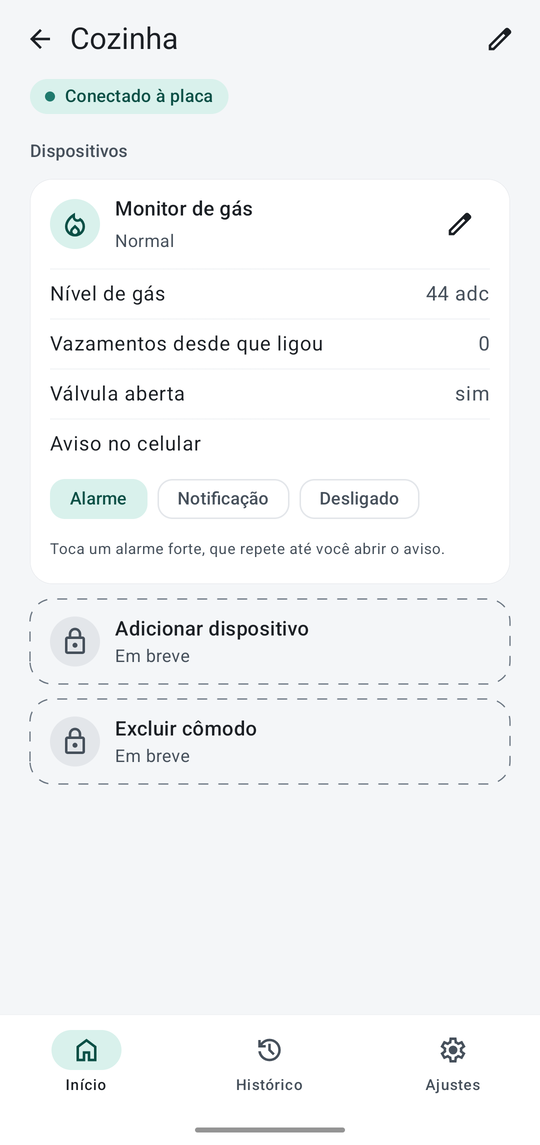
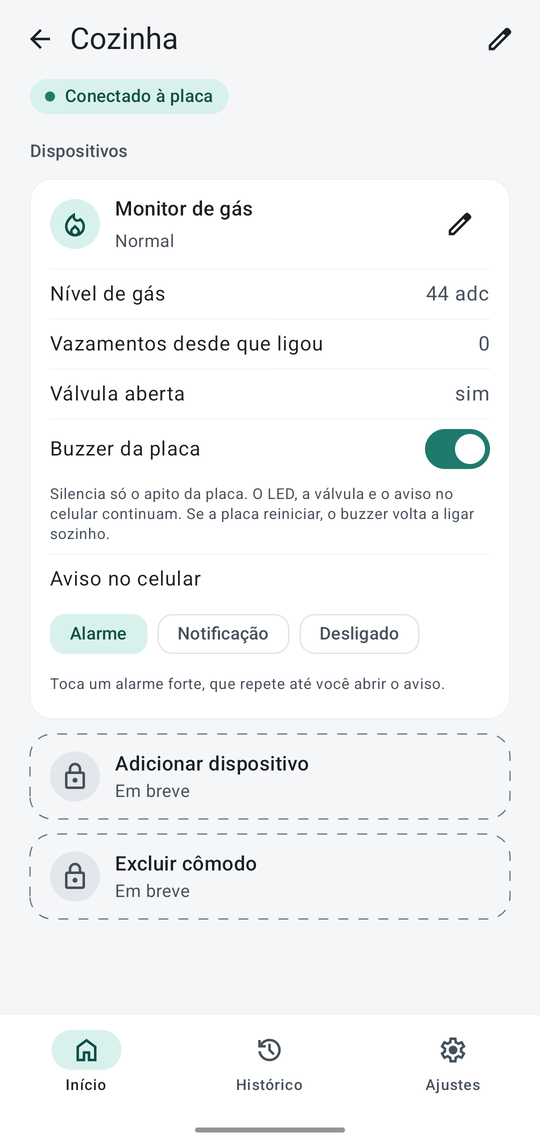
feat: the app has a switch for the buzzer of the board, and silencing it asks first (#36)
The card of the gas monitor shows "Buzzer da placa", the buzzer-enabled switch of the
contract, with a line that says it silences only the sound of the board (the LED, the
valve and the warning on the phone go on) and that it comes back on by itself if the
board restarts. Silencing it asks first, for whoever is near the board without the
phone would hear nothing in a leak; enabling it again does not ask.

Documentation: README of the app and a new photo of the kitchen.

diff --git a/android/app/src/main/kotlin/io/github/gustavommcv/ciscsmarthome/ui/home/RoomScreen.kt b/android/app/src/main/kotlin/io/github/gustavommcv/ciscsmarthome/ui/home/RoomScreen.kt
@@ -221,6 +221,7 @@ private fun DeviceCard(
       HorizontalDivider(modifier = Modifier.padding(top = if (index == 0) Spacing.M else 0.dp), thickness = Dp.Hairline, color = MaterialTheme.colorScheme.outlineVariant)
       val enabled = entity.controlEnabled(connection, pending)
       when {
+        entity is Entity.Switch && entity.commandable && entity.id == EntityIds.BuzzerEnabled -> BuzzerRow(entity, enabled) { onCommand(entity.id, entity.toggleCommand()) }
         entity is Entity.Switch && entity.commandable -> SwitchRow(entity, enabled) { onCommand(entity.id, entity.toggleCommand()) }
         entity is Entity.Select && entity.commandable -> SelectRow(entity, enabled) { option -> onCommand(entity.id, CommandValue.Choice(option)) }
         entity is Entity.Number && entity.commandable -> {
@@ -248,6 +249,34 @@ private fun DeviceCard(
         onRestore = { onCommandsInOrder(limits.restore().map { (id, value) -> id to CommandValue.Number(value) }) },
       )
     }
+  }
+}
+
+/** The switch of the buzzer of the board, with what it does and does not do under it. Silencing it asks first. */
+@Composable
+private fun BuzzerRow(entity: Entity.Switch, enabled: Boolean, onToggle: () -> Unit) {
+  var confirming by rememberSaveable { mutableStateOf(false) }
+  Column(verticalArrangement = Arrangement.spacedBy(Spacing.Xs)) {
+    SwitchRow(entity, enabled) { if (entity.asksBeforeToggling()) confirming = true else onToggle() }
+    Text(stringResource(R.string.hint_buzzer), style = MaterialTheme.typography.bodySmall, color = MaterialTheme.colorScheme.onSurfaceVariant, modifier = Modifier.padding(bottom = Spacing.S))
+  }
+  if (confirming) {
+    AlertDialog(
+      onDismissRequest = { confirming = false },
+      title = { Text(stringResource(R.string.buzzer_off_title)) },
+      text = { Text(stringResource(R.string.buzzer_off_text)) },
+      confirmButton = {
+        TextButton(
+          onClick = {
+            confirming = false
+            onToggle()
+          },
+        ) {
+          Text(stringResource(R.string.buzzer_off_confirm))
+        }
+      },
+      dismissButton = { TextButton(onClick = { confirming = false }) { Text(stringResource(R.string.rename_cancel)) } },
+    )
   }
 }
 

diff --git a/android/app/src/test/kotlin/io/github/gustavommcv/ciscsmarthome/data/remote/BoardClientTest.kt b/android/app/src/test/kotlin/io/github/gustavommcv/ciscsmarthome/data/remote/BoardClientTest.kt
@@ -91,7 +91,7 @@ class BoardClientTest {
     reply(200, CONTRACT_HOME)
     val home = runBlocking { client.getHome() }.value()
     val ids = { area: Int -> home.areas[area].devices.single().entities.map { it.id.value } }
-    assertEquals(listOf("gas-level", "gas-state", "gas-alerts", "valve-open"), ids(0))
+    assertEquals(listOf("gas-level", "gas-state", "gas-alerts", "valve-open", "buzzer-enabled"), ids(0))
     assertEquals(listOf("temperature", "humidity", "dehumidifier-power", "dehumidifier-mode", "dehumidifier-on-at", "dehumidifier-off-at"), ids(1))
   }
 
@@ -131,6 +131,10 @@ class BoardClientTest {
     assertEquals(
       Entity.Number(EntityId("dehumidifier-off-at"), "Turn off at", 83.0, "%", min = 40.0, max = 95.0, step = 1.0, default = 83.0, commandable = true),
       home.findEntity(EntityId("dehumidifier-off-at")),
+    )
+    assertEquals(
+      Entity.Switch(EntityId("buzzer-enabled"), "Buzzer", on = true, commandable = true),
+      home.findEntity(EntityId("buzzer-enabled")),
     )
   }
 
@@ -484,7 +488,8 @@ class BoardClientTest {
             {"id": "gas-level", "kind": "sensor", "name": "Gas level", "value": 142, "unit": "adc"},
             {"id": "gas-state", "kind": "sensor", "name": "Gas state", "value": "normal"},
             {"id": "gas-alerts", "kind": "sensor", "name": "Gas alerts since boot", "value": 0},
-            {"id": "valve-open", "kind": "binary_sensor", "name": "Valve open", "value": true}]}]},
+            {"id": "valve-open", "kind": "binary_sensor", "name": "Valve open", "value": true},
+            {"id": "buzzer-enabled", "kind": "switch", "name": "Buzzer", "value": true, "commandable": true}]}]},
         {"id": "bedroom", "name": "Bedroom", "devices": [
           {"id": "closet-monitor", "name": "Closet monitor", "entities": [
             {"id": "temperature", "kind": "sensor", "name": "Temperature", "value": 21.4, "unit": "°C"},

diff --git a/android/app/src/main/kotlin/io/github/gustavommcv/ciscsmarthome/ui/home/Controls.kt b/android/app/src/main/kotlin/io/github/gustavommcv/ciscsmarthome/ui/home/Controls.kt
@@ -7,6 +7,7 @@ import io.github.gustavommcv.ciscsmarthome.domain.ConnectionProblem
 import io.github.gustavommcv.ciscsmarthome.domain.ConnectionState
 import io.github.gustavommcv.ciscsmarthome.domain.Entity
 import io.github.gustavommcv.ciscsmarthome.domain.EntityId
+import io.github.gustavommcv.ciscsmarthome.domain.EntityIds
 
 /**
  * Whether the control of this entity works now: the board must take commands for it, must be heard (a command
@@ -15,6 +16,12 @@ import io.github.gustavommcv.ciscsmarthome.domain.EntityId
  */
 internal fun Entity.controlEnabled(connection: ConnectionState, pending: Set<EntityId>): Boolean =
   commandable && connection == ConnectionState.Connected && id !in pending
+
+/**
+ * Whether touching this switch asks first. Only silencing the buzzer does: the board still closes the valve and lights the LED, and the phone still warns, but whoever
+ * is near the board without the phone would hear nothing in a leak. Enabling it again, or any other switch, does not ask.
+ */
+internal fun Entity.Switch.asksBeforeToggling(): Boolean = id == EntityIds.BuzzerEnabled && on == true
 
 /** What touching a switch asks for: the opposite of what it shows. A switch with no reading is asked to turn on. */
 internal fun Entity.Switch.toggleCommand(): CommandValue.Flag = CommandValue.Flag(on != true)

diff --git a/android/app/src/test/kotlin/io/github/gustavommcv/ciscsmarthome/ui/home/ControlsTest.kt b/android/app/src/test/kotlin/io/github/gustavommcv/ciscsmarthome/ui/home/ControlsTest.kt
@@ -16,6 +16,31 @@ class ControlsTest {
   private val power = Entity.Switch(EntityId("dehumidifier-power"), "Power", on = false, commandable = true)
   private val mode = Entity.Select(EntityId("dehumidifier-mode"), "Mode", "automatic", listOf("automatic", "manual"), commandable = true)
 
+  private val buzzer = Entity.Switch(EntityId("buzzer-enabled"), "Buzzer", on = true, commandable = true)
+
+  // ---- the buzzer asks before it is silenced -------------------------------------------
+
+  @Test
+  fun `the buzzer asks first when it is about to be silenced, for nobody near the board would hear a leak`() {
+    assertTrue(buzzer.asksBeforeToggling())
+  }
+
+  @Test
+  fun `the buzzer does not ask when it is about to be enabled again`() {
+    assertFalse(buzzer.copy(on = false).asksBeforeToggling())
+  }
+
+  @Test
+  fun `a buzzer that says nothing is asked to be enabled, which does not ask`() {
+    assertFalse(buzzer.copy(on = null).asksBeforeToggling())
+  }
+
+  @Test
+  fun `no other switch asks first`() {
+    assertFalse(power.asksBeforeToggling())
+    assertFalse(power.copy(on = true).asksBeforeToggling())
+  }
+
   // ---- when a control works -------------------------------------------------------------
 
   @Test

diff --git a/android/app/src/test/kotlin/io/github/gustavommcv/ciscsmarthome/ui/home/LabelsTest.kt b/android/app/src/test/kotlin/io/github/gustavommcv/ciscsmarthome/ui/home/LabelsTest.kt
@@ -10,7 +10,7 @@ import org.junit.Test
 
 class LabelsTest {
   private val known =
-    listOf("gas-level", "gas-state", "gas-alerts", "valve-open", "temperature", "humidity", "dehumidifier-power", "dehumidifier-mode", "dehumidifier-on-at", "dehumidifier-off-at")
+    listOf("gas-level", "gas-state", "gas-alerts", "valve-open", "temperature", "humidity", "dehumidifier-power", "dehumidifier-mode", "dehumidifier-on-at", "dehumidifier-off-at", "buzzer-enabled")
 
   @Test
   fun `every entity of the maquete has a label in Portuguese`() {

diff --git a/android/app/src/main/kotlin/io/github/gustavommcv/ciscsmarthome/ui/home/Labels.kt b/android/app/src/main/kotlin/io/github/gustavommcv/ciscsmarthome/ui/home/Labels.kt
@@ -19,6 +19,7 @@ internal fun EntityId.labelRes(): Int? =
     EntityIds.GasState -> R.string.label_gas_state
     EntityIds.GasAlerts -> R.string.label_gas_alerts
     EntityIds.ValveOpen -> R.string.label_valve_open
+    EntityIds.BuzzerEnabled -> R.string.label_buzzer
     EntityIds.Temperature -> R.string.label_temperature
     EntityIds.Humidity -> R.string.label_humidity
     EntityIds.DehumidifierPower -> R.string.label_dehumidifier_power

diff --git a/android/app/src/main/kotlin/io/github/gustavommcv/ciscsmarthome/domain/Contract.kt b/android/app/src/main/kotlin/io/github/gustavommcv/ciscsmarthome/domain/Contract.kt
@@ -9,6 +9,7 @@ object EntityIds {
   val GasState = EntityId("gas-state")
   val GasAlerts = EntityId("gas-alerts")
   val ValveOpen = EntityId("valve-open")
+  val BuzzerEnabled = EntityId("buzzer-enabled")
   val Temperature = EntityId("temperature")
   val Humidity = EntityId("humidity")
   val DehumidifierPower = EntityId("dehumidifier-power")

diff --git a/android/app/src/test/kotlin/io/github/gustavommcv/ciscsmarthome/domain/ContractTest.kt b/android/app/src/test/kotlin/io/github/gustavommcv/ciscsmarthome/domain/ContractTest.kt
@@ -30,6 +30,7 @@ class ContractTest {
         EntityIds.Humidity,
         EntityIds.DehumidifierPower,
         EntityIds.DehumidifierMode,
+        EntityIds.BuzzerEnabled,
         EntityIds.DehumidifierOnAt,
         EntityIds.DehumidifierOffAt,
       ).map { it.value },

diff --git a/android/README.md b/android/README.md
@@ -18,7 +18,7 @@ As telas, tiradas de um celular de verdade (um Moto G85) ligado à maquete.
 
 | Cozinha: o monitor de gás | Desligar o aviso |
 |:---:|:---:|
-| <img src="../docs/imagens/comodo-cozinha.png" width="250" alt="A cozinha: o cartão do monitor de gás, com o nível de gás, os vazamentos, a válvula e o aviso no celular, com três escolhas: Alarme (marcada), Notificação e Desligado"> | <img src="../docs/imagens/desligar-aviso.png" width="250" alt="A pergunta ao desligar o aviso: O celular não vai avisar de um vazamento de gás neste cômodo. A placa continua apitando e fechando a válvula, com os botões Cancelar e Desligar"> |
+| <img src="../docs/imagens/comodo-cozinha.png" width="250" alt="A cozinha: o cartão do monitor de gás, com o nível de gás, os vazamentos, a válvula, o interruptor do buzzer da placa e o aviso no celular, com três escolhas: Alarme (marcada), Notificação e Desligado"> | <img src="../docs/imagens/desligar-aviso.png" width="250" alt="A pergunta ao desligar o aviso: O celular não vai avisar de um vazamento de gás neste cômodo. A placa continua apitando e fechando a válvula, com os botões Cancelar e Desligar"> |
 
 As imagens mostram só o app: a barra de status do celular foi cortada. Para refazê-las, com o celular em modo de depuração e ligado à maquete, use `adb exec-out screencap -p > tela.png` e corte os primeiros 110 pixels de cima.
 
@@ -328,6 +328,7 @@ Com a tela apagada, o Android corta a rede dos apps que estão em segundo plano,
 - mantém uma **notificação fixa** que diz se a placa está sendo ouvida (os mesmos textos da tela, por `ConnectionMessages`), num canal discreto, **com o botão "Parar de monitorar"**. Esse botão é o jeito de fechar o app de vez: ele para a sincronização (e com ela a ligação com a placa, o que devolve o Wi-Fi do celular), tira a notificação fixa e o aviso de "casa sem vigia", fecha as telas do app e a tarefa dele da lista de recentes (`AppDependencies.closeApp`), e para o serviço. O Android **não o inicia de novo** (`START_NOT_STICKY`): a casa só volta a ser vigiada quando o usuário abre o app. **Um aviso de vazamento que está tocando não é calado** por esse botão, porque fechar o app não é um jeito de silenciar o gás. Depois de parado, a conexão volta a "Conectando", e a última casa que o app ouviu fica como estava;
 - **avisa de cada vazamento** que o repositório manda em `alerts`, num canal de **alta importância, com um som próprio, no volume de alarme**, e vibração. O som é **três bipes agudos e uma pausa, repetidos** (`res/raw/gas_alarm.ogg`, uns 6 s), como o de um detector de fumaça, para um vazamento **não ser confundido com o despertador**, que usa o toque de alarme do celular. A vibração é de **três pulsos fortes**, como os três bipes. O Android guarda o som com que um canal nasceu, então o som novo é um **canal novo** (`gas_alarm`), e o antigo (`gas_alert`) é removido quando o serviço começa. Cada vazamento é uma notificação própria, nomeada pela partida da placa e pela contagem, então um vazamento novo avisa de novo em vez de trocar o texto do anterior. Tocar nela abre o app. **O som se repete** até a notificação ser aberta (puxar a barra de notificações também o silencia) ou cancelada (`FLAG_INSISTENT`): um som que toca uma vez só pode passar em branco para quem dorme. O texto diz o cômodo em português (`kitchen` vira Cozinha, `bedroom` vira Quarto; um cômodo sem nome em português sai com o nome que a placa deu).
 - **O alarme para sozinho quando a placa diz que o vazamento acabou.** Isso só acontece depois que alguém aperta o botão da maquete com o gás já longe, que é a única forma de a placa voltar a `normal`; então a notificação é retirada e o som cessa, sem tocar no celular. Um vazamento só é dado por encerrado quando a placa diz que é *aquele*: o estado tem que ser da mesma partida, não ser emergência, e a contagem de vazamentos já ter alcançado a dele (`GasAlert.isOverIn`). Por isso um estado atrasado, de antes do vazamento, não cala um alarme novo, e uma placa que reiniciou também não (a nova partida tem que achar o gás de novo).
+- **O buzzer da placa também pode ser silenciado**: o cartão do monitor de gás tem o interruptor **"Buzzer da placa"** (a entidade `buzzer-enabled`, decisão [0012](../docs/decisoes/0012-buzzer-pode-ser-silenciado-pelo-app.md)). Silenciar só cala o apito: o LED, a válvula e o aviso no celular continuam. **Silenciar pergunta antes** (`Entity.Switch.asksBeforeToggling`), porque quem está perto da placa sem o celular não ouviria nada num vazamento; ligar de novo não pergunta. O silêncio **não fica guardado na placa**: se ela reiniciar, o buzzer volta ligado.
 - **O usuário escolhe como o celular avisa**, cômodo a cômodo, no cartão do monitor de gás: **Alarme** (o padrão: o som próprio, que repete), **Notificação** (uma notificação comum, num canal `gas_notice` de alta importância com o som de notificações, que não repete, e some quando tocada ou quando a placa diz que o vazamento acabou) ou **Desligado** (o celular não avisa; a placa continua apitando e fechando a válvula). **Desligar pergunta antes**, porque deixa o celular em silêncio num vazamento. A escolha é lida **na hora do vazamento** (`LeakWarnings`), então uma mudança feita um instante antes já vale; vive em `LeakAlertSettings`, guardada num arquivo só do app (`leak-alert-settings`, `area:<id>` com a chave `notice` ou `off`; o alarme, que é o padrão, não guarda nada). Um cômodo com o aviso desligado não entra na lista dos avisos que o serviço sabe retirar.
 - **Avisa quando a casa deixa de ser vigiada.** Se a placa fica fora de alcance por **1 minuto** (o celular saiu do Wi-Fi dela, ou ela desligou), uma notificação própria diz "A casa não está sendo vigiada", com o motivo. Ela tem um canal de importância alta com o som de notificação, **não** o de alarme, porque uma casa sem vigia é grave, mas não é gás. Some quando a placa volta, e o minuto recomeça a cada mudança de estado, então uma placa que volta a tempo nunca avisa.
 - Se o Android o encerrar por falta de memória, ele é iniciado de novo (`START_STICKY`).
